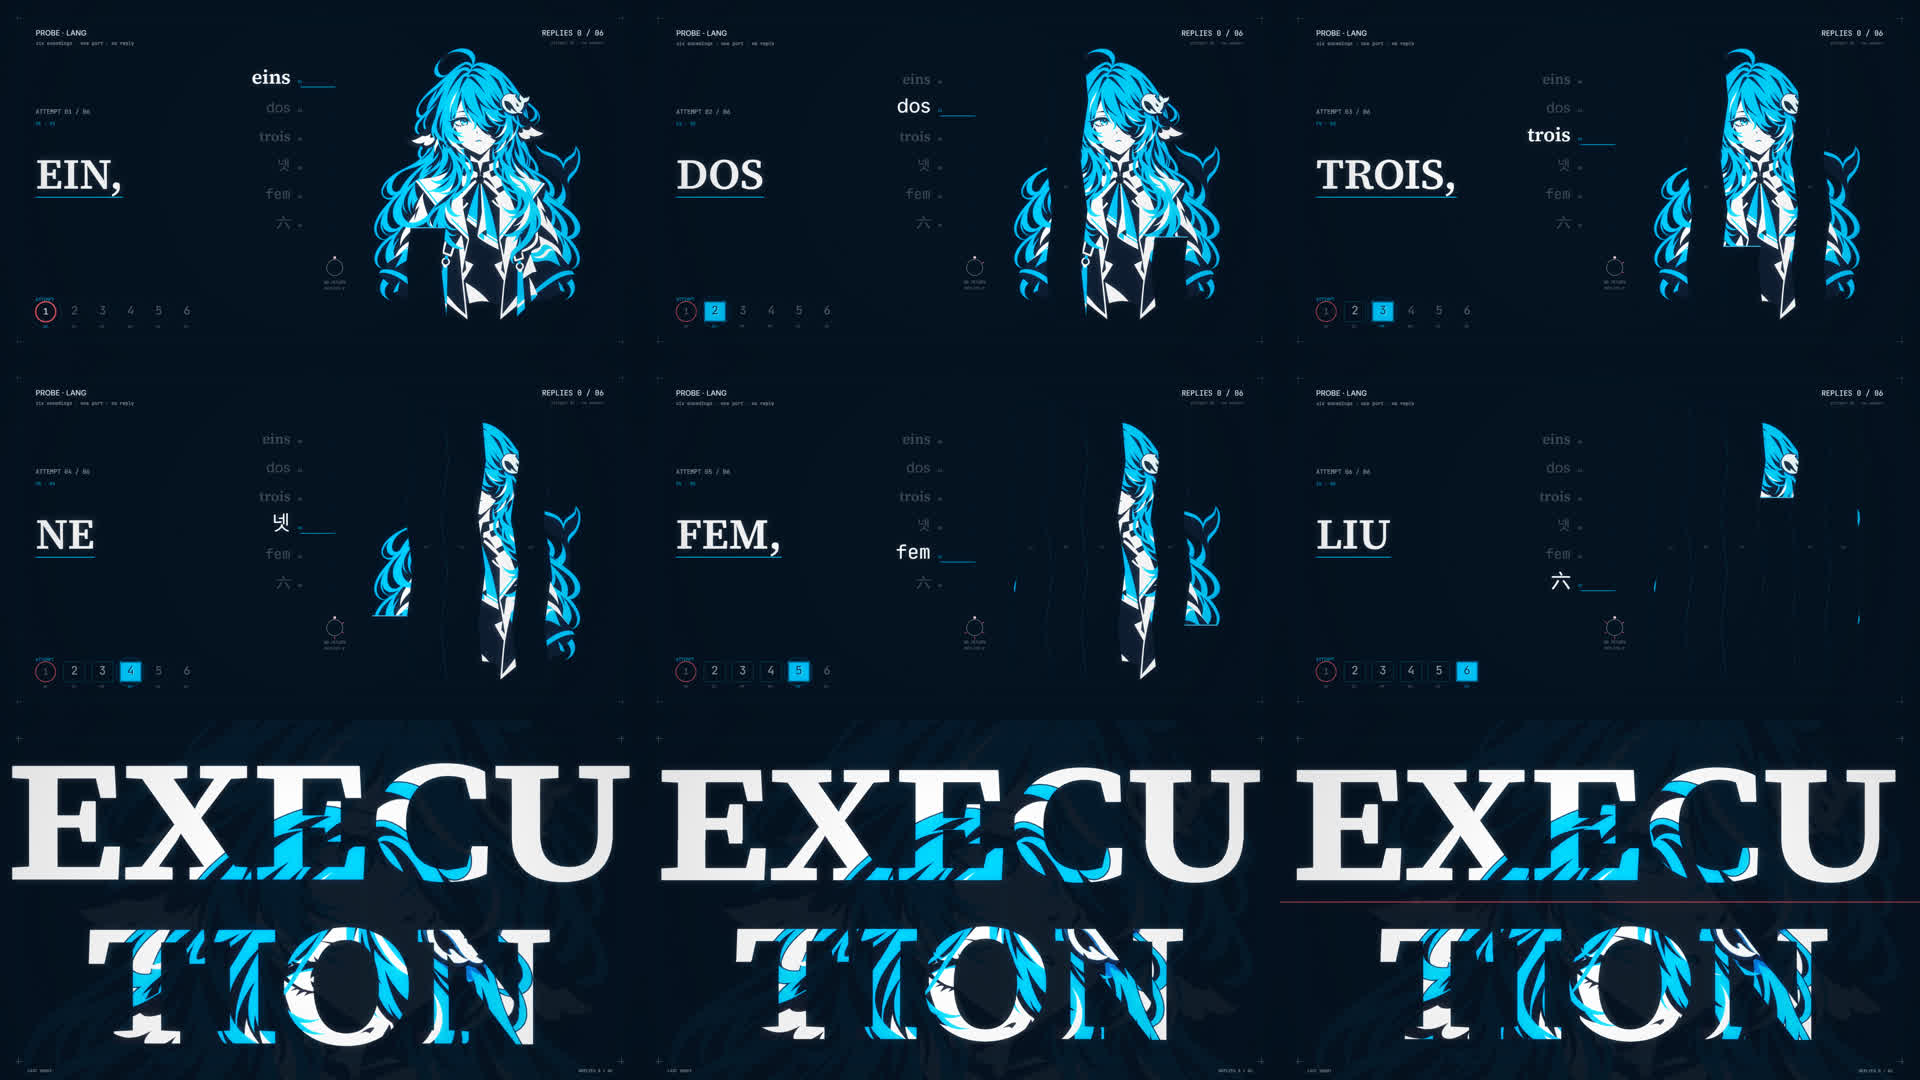
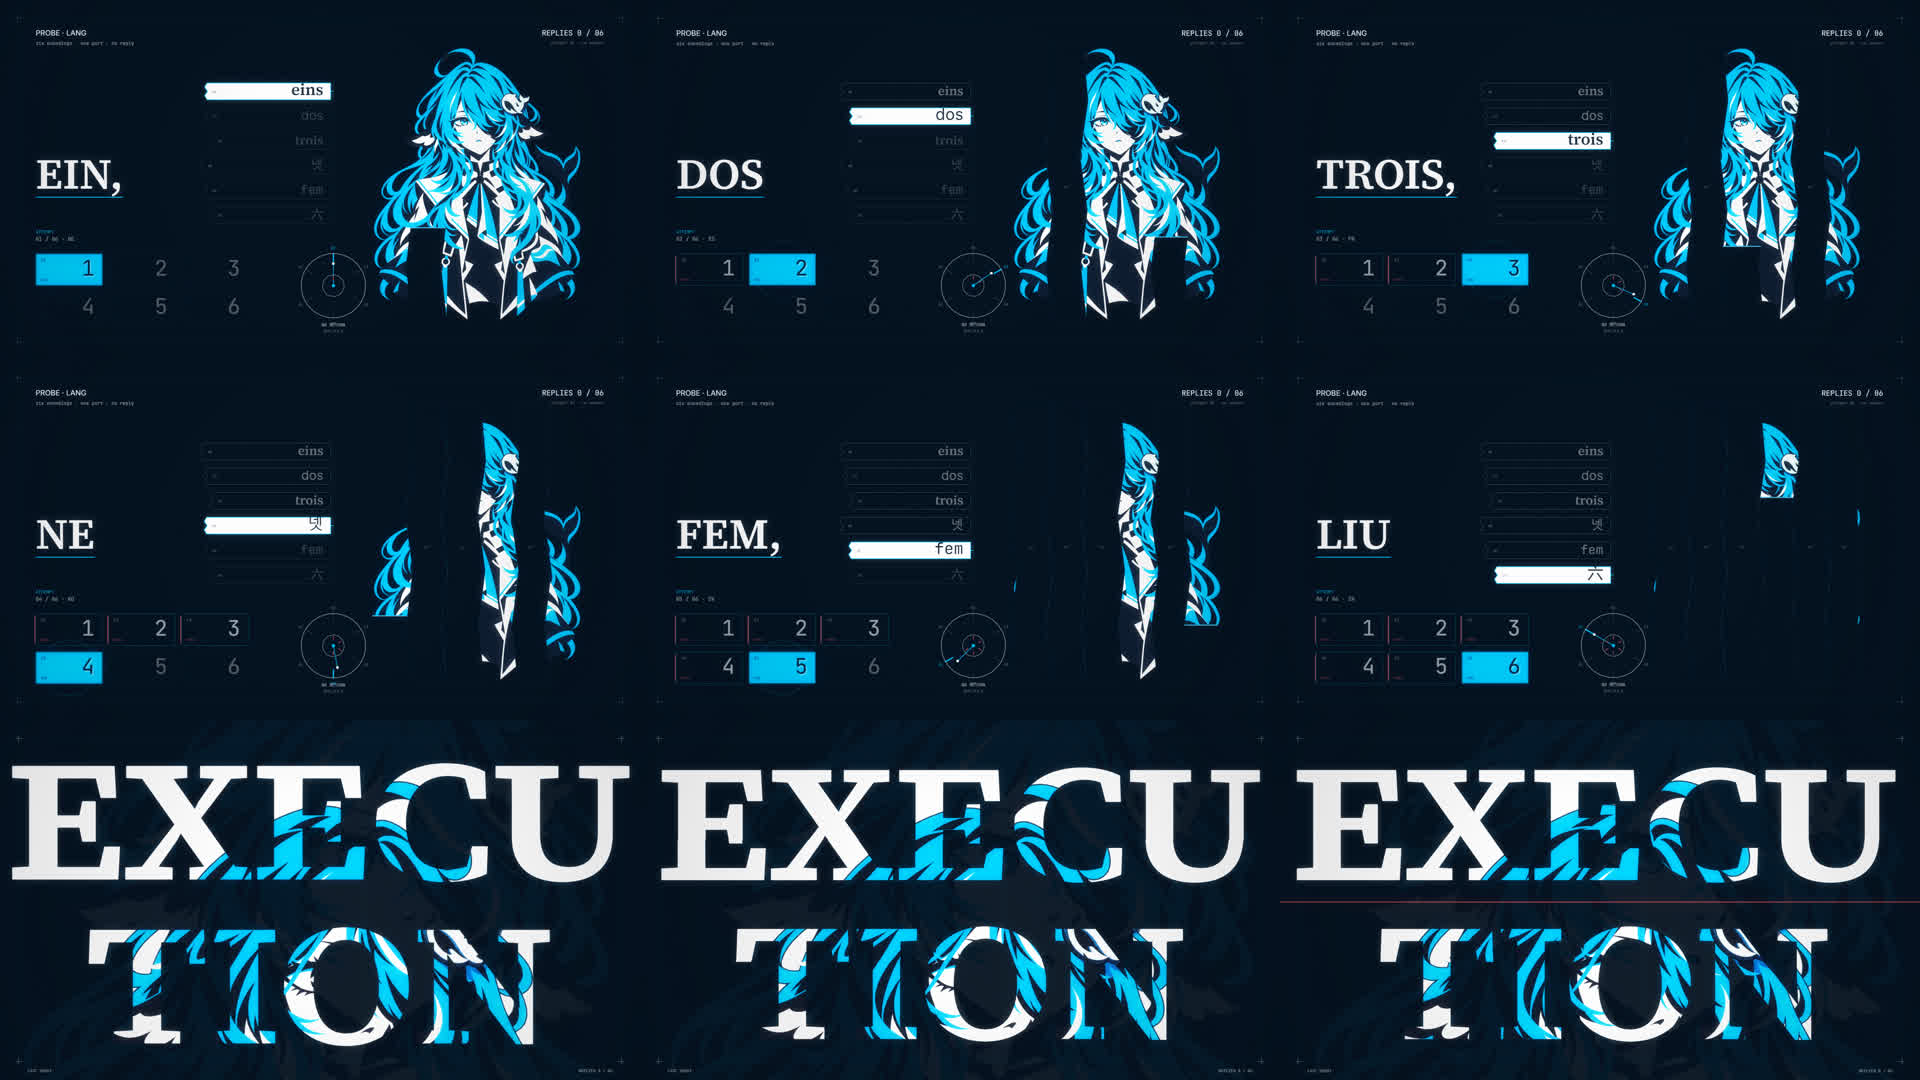
Section 11: Give The Counter, The Language Slips And The Empty Dial Their Own Weight
The character dissolve was accepted; the three text instruments were still small and generic. The attempt counter is now a two-row, three-column printed ledger in the lower-left -- 200x96 cells, 64 px numerals, a blue active cell with a misregistered echo and one expanding ring, past cells with a two-pixel red edge and MISS. It fills the space instead of hiding in a corner.

The middle is no longer a six-row list. It is six torn paper slips in six faces (eins, dos, trois, 넷, fem, 六); the current slip is pulled out of the stack, turns paper-white with ink type, and all six feed one bus. That is our own print-room image, not the reference's code listing.

The empty port is now a dial: six language slots, a needle that snaps to the language being tried on every beat, and a hollow core that collects one two-pixel red failure mark per attempt. It is large enough to read as an instrument.

Only the section 11 renderer and its stills/poster are committed; the review page now also carries another session's section 12 block, so it was left in the working tree.

diff --git a/newProj_v1017/shots/s11_count.js b/newProj_v1017/shots/s11_count.js
@@ -75,11 +75,18 @@ const P_CONTENT_TOP = Math.round(P_TOP + 128 * P_SCALE);
 const P_CONTENT_W = Math.round(1086 * P_SCALE);
 const P_CONTENT_H = Math.round(1438 * P_SCALE);
 
-// The empty port between the language wall and the plate.
-const PORT = Object.freeze({ x: 1004, y: 802, r: 24 });
-const COLLECTOR_X = 1004;
-const COLLECTOR_TOP = 240;
-const COLLECTOR_BOT = 714;
+// The empty port becomes a full dial: six language slots around the rim, a
+// needle that snaps to the language being tried, and one red failure mark per
+// attempt in the hollow core.
+const WHEEL = Object.freeze({ x: 1000, y: 856, r: 96 });
+const SLIP_X0 = 600;
+const SLIP_X1 = 992;
+const SLIP_Y0 = 250;
+const SLIP_GAP = 74;
+const SLIP_H = 50;
+const BUS_X = WHEEL.x;
+const BUS_TOP = SLIP_Y0 - 10;
+const BUS_BOT = WHEEL.y - WHEEL.r;
 
 const clamp01 = clamp;
 const easeOut = (x) => 1 - (1 - clamp01(x)) ** 3;
@@ -219,108 +226,188 @@ function dissolver(ctx, t, s, n) {
   }
 }
 
-/** The current word, big; the six attempt marks under it are the counter. */
+/** The current word, big; the 2x3 attempt grid uses the whole lower-left. */
 function leftColumn(ctx, t, s, n) {
   const word = lineText(countLine(n));
-  type(ctx, `ATTEMPT ${String(n).padStart(2, "0")} / 06`, 110, 342, 18, PAPER_MID, "MV Mono");
-  type(ctx, `${LANGS[n - 1]} · ${String(n).padStart(2, "0")}`, 110, 376, 14, BLUE, "MV Mono");
+  type(ctx, "ATTEMPT", 110, 700, 13, BLUE, "MV Mono");
+  type(ctx, `${String(n).padStart(2, "0")} / 06 · ${LANGS[n - 1]}`, 110, 722, 16, PAPER_MID, "MV Mono");
   type(ctx, word, 110, 566, 128, PAPER, "MV Serif");
   ctx.font = '600 128px "MV Serif"';
   const w = Math.min(560, ctx.measureText(word).width);
   ctx.fillStyle = BLUE;
   ctx.fillRect(110, 590, Math.round(w), 3);
 
-  // six big attempt marks, one per request; the active one gets a misregistered
-  // echo and one expanding ring, so the beat reads as an event, not a lamp
-  const y = 934;
-  const cell = 64;
-  const gap = 20;
-  type(ctx, "ATTEMPT", 110, 902, 13, BLUE, "MV Mono");
+  // two rows by three columns: the counter is now a printed ledger, not a strip
+  const x0 = 110;
+  const y0 = 760;
+  const cw = 200;
+  const ch = 96;
+  const gx = 18;
+  const gy = 18;
   for (let i = 0; i < 6; i++) {
-    const x = 110 + i * (cell + gap);
+    const col = i % 3;
+    const row = Math.floor(i / 3);
+    const x = x0 + col * (cw + gx);
+    const y = y0 + row * (ch + gy);
     const active = i + 1 === n;
     const done = i + 1 < n;
-    if (i === 0) {
-      // section 10's closed port is the first tick
-      ctx.beginPath();
-      ctx.arc(x + 30, y, 30, 0, Math.PI * 2);
-      ctx.strokeStyle = RED;
-      ctx.lineWidth = active ? 4 : 2;
-      ctx.stroke();
-      type(ctx, "1", x + 30, y + 8, 26, active ? PAPER : PAPER_DIM, "MV Mono", "center");
-    } else {
-      ctx.strokeStyle = active ? BLUE : done ? "rgba(0,180,230,0.55)" : BLUE_FAINT;
-      ctx.lineWidth = 1;
-      ctx.strokeRect(x, y - 30, cell, 60);
-      if (active) {
-        ctx.fillStyle = BLUE;
-        ctx.fillRect(x + 2, y - 28, cell - 4, 56);
-      }
-      // the echo: two pixels of paper, off register
-      if (active) {
-        type(ctx, String(i + 1), x + cell / 2 + 3, y + 10, 34, "rgba(242,247,250,0.30)", "MV Mono", "center");
-      }
-      type(ctx, String(i + 1), x + cell / 2, y + 8, 34, active ? INK : done ? PAPER_MID : PAPER_DIM, "MV Mono", "center");
-    }
-    type(ctx, LANGS[i], x + 30, y + 48, 11, active ? BLUE : PAPER_DIM, "MV Mono", "center");
 
+    ctx.strokeStyle = active ? BLUE : done ? "rgba(0,180,230,0.50)" : BLUE_FAINT;
+    ctx.lineWidth = 1;
+    ctx.strokeRect(x + 0.5, y + 0.5, cw - 1, ch - 1);
+    if (active) {
+      ctx.fillStyle = BLUE;
+      ctx.fillRect(x + 2, y + 2, cw - 4, ch - 4);
+    }
+    if (done) {
+      ctx.fillStyle = RED;
+      ctx.fillRect(x - 3, y + 8, 2, ch - 16);
+    }
+    if (active) {
+      type(ctx, String(i + 1), x + cw - 20, y + ch - 26, 64, "rgba(242,247,250,0.28)", "MV Mono", "right");
+    }
+    type(
+      ctx,
+      String(i + 1),
+      x + cw - 24,
+      y + ch - 30,
+      64,
+      active ? INK : done ? PAPER_MID : PAPER_DIM,
+      "MV Mono",
+      "right",
+    );
+    type(ctx, LANGS[i], x + 16, y + 24, 12, active ? INK : done ? PAPER_DIM : BLUE_FAINT, "MV Mono");
+    type(
+      ctx,
+      done ? "MISS" : "REQ",
+      x + 16,
+      y + ch - 14,
+      10,
+      active ? INK : done ? "rgba(231,93,105,0.75)" : BLUE_FAINT,
+      "MV Mono",
+    );
     if (active) {
       const k = clamp01((t - s.at) / 0.16);
       ctx.beginPath();
-      ctx.arc(x + 30, y, 34 + Math.round(18 * k), 0, Math.PI * 2);
-      ctx.strokeStyle = `rgba(0,180,230,${(0.55 * (1 - k)).toFixed(2)})`;
+      ctx.arc(x + cw / 2, y + ch / 2, 70 + Math.round(26 * k), 0, Math.PI * 2);
+      ctx.strokeStyle = `rgba(0,180,230,${(0.5 * (1 - k)).toFixed(2)})`;
       ctx.lineWidth = 2;
       ctx.stroke();
     }
   }
 }
 
-/** The language wall: the same request in six scripts, all to the same port. */
-function languageWall(ctx, t, s, n) {
+/** A slip of paper with a torn left edge, used for the six language strips. */
+function slipPath(ctx, xl, y, w, h) {
+  ctx.beginPath();
+  ctx.moveTo(xl + 9, y);
+  ctx.lineTo(xl + w, y);
+  ctx.lineTo(xl + w, y + h);
+  ctx.lineTo(xl + 9, y + h);
+  ctx.lineTo(xl + 2, y + h * 0.75);
+  ctx.lineTo(xl + 11, y + h * 0.5);
+  ctx.lineTo(xl + 2, y + h * 0.25);
+  ctx.closePath();
+}
+
+/** Six language slips pulled out of a stack, all feeding one bus. */
+function languageSlips(ctx, t, s, n) {
+  stroke(ctx, [[BUS_X, BUS_TOP], [BUS_X, BUS_BOT]], BLUE_FAINT, 1);
   for (let i = 0; i < 6; i++) {
+    const y = SLIP_Y0 + i * SLIP_GAP;
     const active = i + 1 === n;
-    const y = 252 + i * 86;
-    const size = active ? 58 : 42;
-    const colour = active ? PAPER : "rgba(242,247,250,0.24)";
+    const done = i + 1 < n;
+    const slide = active ? Math.round(14 * easeOut(clamp01((t - s.at) / 0.18))) : 0;
+    const xl = SLIP_X0 + (i % 3) * 14 + slide;
+    const w = SLIP_X1 - xl;
+    slipPath(ctx, xl, y, w, SLIP_H);
+    if (active) {
+      ctx.fillStyle = PAPER;
+      ctx.fill();
+      ctx.strokeStyle = BLUE;
+      ctx.lineWidth = 2;
+      ctx.stroke();
+    } else {
+      ctx.strokeStyle = done ? "rgba(242,247,250,0.30)" : "rgba(242,247,250,0.16)";
+      ctx.lineWidth = 1;
+      ctx.stroke();
+    }
+    const size = active ? 48 : 38;
     ctx.font = NATIVE[i].font(size);
     ctx.textAlign = "right";
     ctx.textBaseline = "alphabetic";
-    ctx.fillStyle = colour;
-    ctx.fillText(NATIVE[i].word, 872, y);
-    type(ctx, LANGS[i], 894, y - 2, 11, active ? BLUE : PAPER_DIM, "MV Mono");
-    // every route to the same collector
-    stroke(ctx, [[902, y + 10], [COLLECTOR_X, y + 10]], active ? BLUE : "rgba(0,180,230,0.10)", active ? 2 : 1);
-    if (active) {
-      const p = clamp01((t - countStart(n)) / 0.28);
-      const px = Math.round(mix(902, COLLECTOR_X, Math.min(1, p * 1.6)));
-      const py = p > 0.62 ? Math.round(mix(y + 10, PORT.y - PORT.r - 6, (p - 0.62) / 0.38)) : y + 10;
-      disc(ctx, p > 0.62 ? COLLECTOR_X : px, py, 4, PAPER, 0.95);
-    }
+    ctx.fillStyle = active ? INK : done ? "rgba(242,247,250,0.42)" : "rgba(242,247,250,0.20)";
+    ctx.fillText(NATIVE[i].word, SLIP_X1 - 22, y + 36);
+    type(ctx, LANGS[i], xl + 26, y + 30, 10, active ? INK : PAPER_DIM, "MV Mono");
+    stroke(
+      ctx,
+      [[SLIP_X1, y + SLIP_H / 2], [BUS_X, y + SLIP_H / 2]],
+      active ? BLUE : "rgba(0,180,230,0.10)",
+      active ? 2 : 1,
+    );
   }
+}
 
-  // the collector and the one empty port
-  stroke(ctx, [[COLLECTOR_X, COLLECTOR_TOP], [COLLECTOR_X, COLLECTOR_BOT]], BLUE_FAINT, 1);
-  stroke(ctx, [[COLLECTOR_X, COLLECTOR_BOT], [COLLECTOR_X, PORT.y - PORT.r - 6]], BLUE_FAINT, 1);
+/** The enlarged dial: six language slots, a needle, and a hollow core. */
+function bigWheel(ctx, t, s, n) {
+  const { x, y, r } = WHEEL;
+  for (let i = 0; i < 6; i++) {
+    const a = -Math.PI / 2 + (i / 6) * Math.PI * 2;
+    const active = i + 1 === n;
+    const x0 = Math.round(x + Math.cos(a) * (r - 24));
+    const y0 = Math.round(y + Math.sin(a) * (r - 24));
+    const x1 = Math.round(x + Math.cos(a) * r);
+    const y1 = Math.round(y + Math.sin(a) * r);
+    stroke(ctx, [[x0, y0], [x1, y1]], active ? BLUE : PAPER_DIM, active ? 4 : 1);
+    const lx = Math.round(x + Math.cos(a) * (r + 17));
+    const ly = Math.round(y + Math.sin(a) * (r + 17));
+    type(ctx, LANGS[i], lx, ly + 4, 11, active ? BLUE : PAPER_DIM, "MV Mono", "center");
+  }
   ctx.beginPath();
-  ctx.arc(PORT.x, PORT.y, PORT.r, 0, Math.PI * 2);
+  ctx.arc(x, y, r, 0, Math.PI * 2);
   ctx.strokeStyle = "rgba(242,247,250,0.55)";
-  ctx.lineWidth = 1.5;
+  ctx.lineWidth = 2;
   ctx.stroke();
   ctx.beginPath();
-  ctx.arc(PORT.x, PORT.y, PORT.r - 8, 0, Math.PI * 2);
+  ctx.arc(x, y, r - 24, 0, Math.PI * 2);
   ctx.strokeStyle = BLUE_FAINT;
   ctx.lineWidth = 1;
   ctx.stroke();
+  ctx.beginPath();
+  ctx.arc(x, y, 32, 0, Math.PI * 2);
+  ctx.strokeStyle = "rgba(242,247,250,0.60)";
+  ctx.lineWidth = 1.5;
+  ctx.stroke();
+
+  const prev = -Math.PI / 2 + ((Math.max(1, n - 1) - 1) / 6) * Math.PI * 2;
+  const cur = -Math.PI / 2 + ((n - 1) / 6) * Math.PI * 2;
+  const k = easeOut(clamp01((t - s.at) / 0.18));
+  const a = mix(prev, cur, k);
+  const nx = Math.round(x + Math.cos(a) * (r - 30));
+  const ny = Math.round(y + Math.sin(a) * (r - 30));
+  stroke(ctx, [[x, y], [nx, ny]], BLUE, 2);
+  disc(ctx, nx, ny, 4, PAPER, 1);
+  disc(ctx, x, y, 5, BLUE, 1);
+
   for (let j = 0; j < n; j++) {
-    const a = -Math.PI / 2 + (j / 6) * Math.PI * 2;
-    const ax0 = Math.round(PORT.x + Math.cos(a) * (PORT.r + 2));
-    const ay0 = Math.round(PORT.y + Math.sin(a) * (PORT.r + 2));
-    const ax1 = Math.round(PORT.x + Math.cos(a) * (PORT.r + 10));
-    const ay1 = Math.round(PORT.y + Math.sin(a) * (PORT.r + 10));
-    stroke(ctx, [[ax0, ay0], [ax1, ay1]], RED_EDGE, 2);
+    const fa = -Math.PI / 2 + (j / 6) * Math.PI * 2;
+    const fx0 = Math.round(x + Math.cos(fa) * 18);
+    const fy0 = Math.round(y + Math.sin(fa) * 18);
+    const fx1 = Math.round(x + Math.cos(fa) * 27);
+    const fy1 = Math.round(y + Math.sin(fa) * 27);
+    stroke(ctx, [[fx0, fy0], [fx1, fy1]], RED_EDGE, 2);
   }
-  type(ctx, "NO RETURN", PORT.x, PORT.y + 48, 12, PAPER_DIM, "MV Mono", "center");
-  type(ctx, "REPLIES 0", PORT.x, PORT.y + 66, 11, PAPER_DIM, "MV Mono", "center");
+  const p = clamp01((t - countStart(n)) / 0.3);
+  if (p > 0.7) {
+    const rr = Math.round(32 + 24 * ((p - 0.7) / 0.3));
+    ctx.beginPath();
+    ctx.arc(x, y, rr, 0, Math.PI * 2);
+    ctx.strokeStyle = `rgba(242,247,250,${(0.5 * (1 - (p - 0.7) / 0.3)).toFixed(2)})`;
+    ctx.lineWidth = 1;
+    ctx.stroke();
+  }
+  type(ctx, "NO RETURN", x, y + r + 26, 13, PAPER_MID, "MV Mono", "center");
+  type(ctx, "REPLIES 0", x, y + r + 44, 11, PAPER_DIM, "MV Mono", "center");
 }
 
 function countShot(n) {
@@ -328,7 +415,8 @@ function countShot(n) {
     page(ctx);
     header(ctx, n);
     leftColumn(ctx, t, s, n);
-    languageWall(ctx, t, s, n);
+    languageSlips(ctx, t, s, n);
+    bigWheel(ctx, t, s, n);
     dissolver(ctx, t, s, n);
     return {
       phase: "count",
